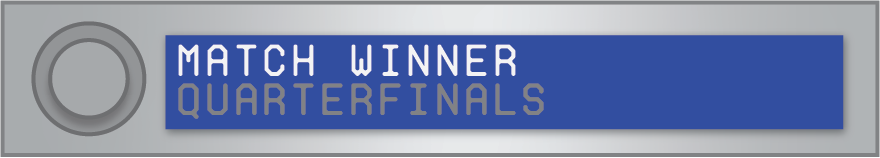
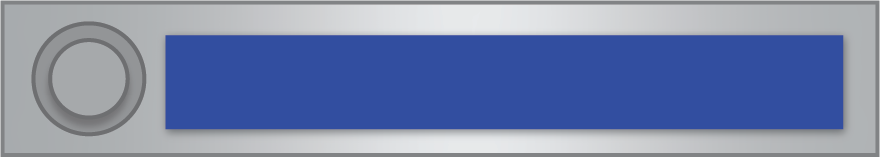
feat: complete winner scene

Changed region(s): [[0.1841, 0.5063, 0.6443, 0.7595], [0.3989, 0.2785, 0.6136, 0.481], [0.1841, 0.2785, 0.3682, 0.481]]

diff --git a/winner/index.js b/winner/index.js
@@ -1,11 +1,21 @@
+import { getCookie } from "../_shared/core/utils.js"
+
+// Match Winner Round
+const matchWinnerRoundEl = document.getElementById("match-winner-round")
+async function getBeatmaps() {
+    const response = await axios.get("../_data/beatmaps.json")
+    matchWinnerRoundEl.textContent = response.data.roundName
+}
+getBeatmaps()
+
 let allTeams
 async function getTeams() {
-    const response = await axios.get("../_data/beatmaps.json")
-    allTeams = response.data.beatmaps
+    const response = await axios.get("../_data/teams.json")
+    allTeams = response.data
 }
 getTeams()
 // Find Teams
-const findTeams = teamName => allBeatmaps.find(team => team.team_name === teamName)
+const findTeams = teamName => allTeams.find(team => team.team_name === teamName)
 
 let currentLeftTeamName, previousLeftTeamName, currentRightTeamName, previousRightTeamName
 let currentStarLeft, previousStarLeft, currentStarRight, previousStarRight
@@ -14,16 +24,19 @@ const teamNameEl = document.getElementById("team-name")
 const playerContainerEl = document.getElementById("player-container")
 
 setInterval(() => {
+    // Set information
     currentLeftTeamName = getCookie("currentLeftTeamName")
     currentRightTeamName = getCookie("currentRightTeamName")
     currentStarLeft = getCookie("currentStarLeft")
     currentStarRight = getCookie("currentStarRight")
 
+    // Compare information
     if (previousLeftTeamName !== currentLeftTeamName ||
         previousRightTeamName !== currentRightTeamName ||
         previousStarLeft !== currentStarLeft ||
         previousStarRight !== currentStarRight
     ) {
+        // Reset information
         previousLeftTeamName = currentLeftTeamName
         previousRightTeamName = currentRightTeamName
         previousStarLeft = currentStarLeft
@@ -39,9 +52,10 @@ setInterval(() => {
 
         // Get team
         const currentTeam = findTeams(winningTeam)
-        teamNameEl.textContent = currentTeam
+        teamNameEl.textContent = currentTeam.team_name
         playerContainerEl.innerHTML = ""
 
+        // Set players
         for (let i = 0; i < currentTeam.player_names.length; i++) {
             const player = document.createElement("div")
             player.textContent = currentTeam.player_names[i]

diff --git a/winner/index.html b/winner/index.html
@@ -7,6 +7,8 @@
 
     <link rel="stylesheet" href="../_shared/common.css">
     <link rel="stylesheet" href="style.css">
+
+    <script src="https://cdn.jsdelivr.net/npm/axios@1.16.0/dist/axios.min.js"></script>
 </head>
 <body>
     <div class="main">
@@ -16,7 +18,7 @@
         <!-- Match Winner -->
         <img class="match-winner-image" src="static/match-winner-image.png">
         <div class="match-winner-text-content match-winner-text">MATCH WINNER</div>
-        <div class="match-winner-text-content match-winner-round">QUARTERFINALS</div>
+        <div class="match-winner-text-content match-winner-round" id="match-winner-round">QUARTERFINALS</div>
 
         <!-- Player Box -->
         <div class="player-box">
@@ -33,5 +35,7 @@
             </div>
         </div>
     </div>
+
+    <script src="index.js" type="module"></script>
 </body>
 </html>

diff --git a/winner/style.css b/winner/style.css
@@ -87,6 +87,7 @@
     display: flex;
     flex-wrap: wrap;
     justify-content: space-evenly;
+    row-gap: 27px;
 }
 .player-container > * {
     margin-bottom: 0.5rem;
